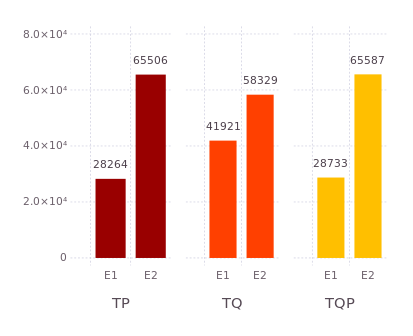
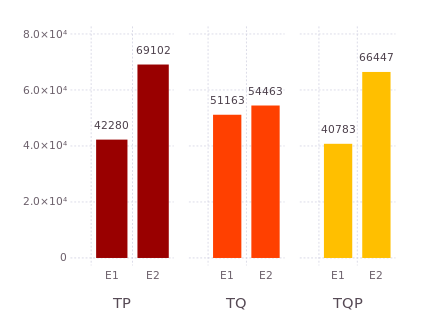
fix bugs in source selection + rely on request for cost model calibrations

diff --git a/src/model/model-repository.js b/src/model/model-repository.js
@@ -24,12 +24,18 @@ SOFTWARE.
 
 'use strict';
 
-const http = require('http');
+// const http = require('http');
+const request = require('request');
 const Model = require('./model.js');
 const Cache = require('lru-cache');
 const SparqlParser = require('sparqljs').Parser;
-const URL = require('url');
+// const URL = require('url');
 const _ = require('lodash');
+
+const HTTP_HEADERS = {
+  accept: 'text/turtle',
+  'User-Agent': 'Quartz TPF client'
+};
 
 /**
  * Extract all triples from a query
@@ -67,6 +73,9 @@ class ModelRepository {
     this._metadataCache = options.metaCache || new Cache({ max: 500 });
     this._bias = new Map();
     this._parser = new SparqlParser();
+    this._http = request.forever({
+      maxSockets: 5
+    });
   }
 
   /**
@@ -166,26 +175,20 @@ class ModelRepository {
     return new Promise((resolve, reject) => {
       const startTime = Date.now();
       let triplesPerPage = 100; // default value for most TPF server
-      const newUrl = URL.parse(url);
-      const httpOptions = {
-        hostname: newUrl.hostname,
-        port: newUrl.port,
-        path: newUrl.path,
-        headers: {
-          accept: 'text/turtle'
-        }
+      const options = {
+        url,
+        headers: HTTP_HEADERS
       };
-      http.get(httpOptions, res => {
-        res.once('error', err => reject(err));
-        res.once('end', () => {
-          const endTime = Date.now();
-          resolve([ endTime - startTime, triplesPerPage ]);
-        });
-        res.on('data', x => {
-          const itemsPerPage = x.toString('utf-8').match(/hydra:itemsPerPage "(.*)"\^\^xsd:integer/);
+      this._http.get(options, (err, res, body) => {
+        const endTime = Date.now();
+        if (err) {
+          reject(err);
+        } else {
+          const itemsPerPage = body.toString('utf-8').match(/hydra:itemsPerPage "(.*)"\^\^xsd:integer/);
           if (itemsPerPage !== null)
             triplesPerPage = parseInt(itemsPerPage[1]);
-        });
+          resolve([ endTime - startTime, triplesPerPage ]);
+        }
       });
     });
   }

diff --git a/src/source-selection/source-selection.js b/src/source-selection/source-selection.js
@@ -40,7 +40,7 @@ class SourceSelection {
    * @return {Promise} A Promise fullfilled with an object ythat associate triples patterns with their relevant sources
    */
   perform (triples, servers) {
-    return Promise.resolve(_.zipObject(triples, servers));
+    return Promise.resolve(_.zipObject(triples.map(t => JSON.stringify(t)), _.times(triples.length, () => servers)));
   }
 }
 
